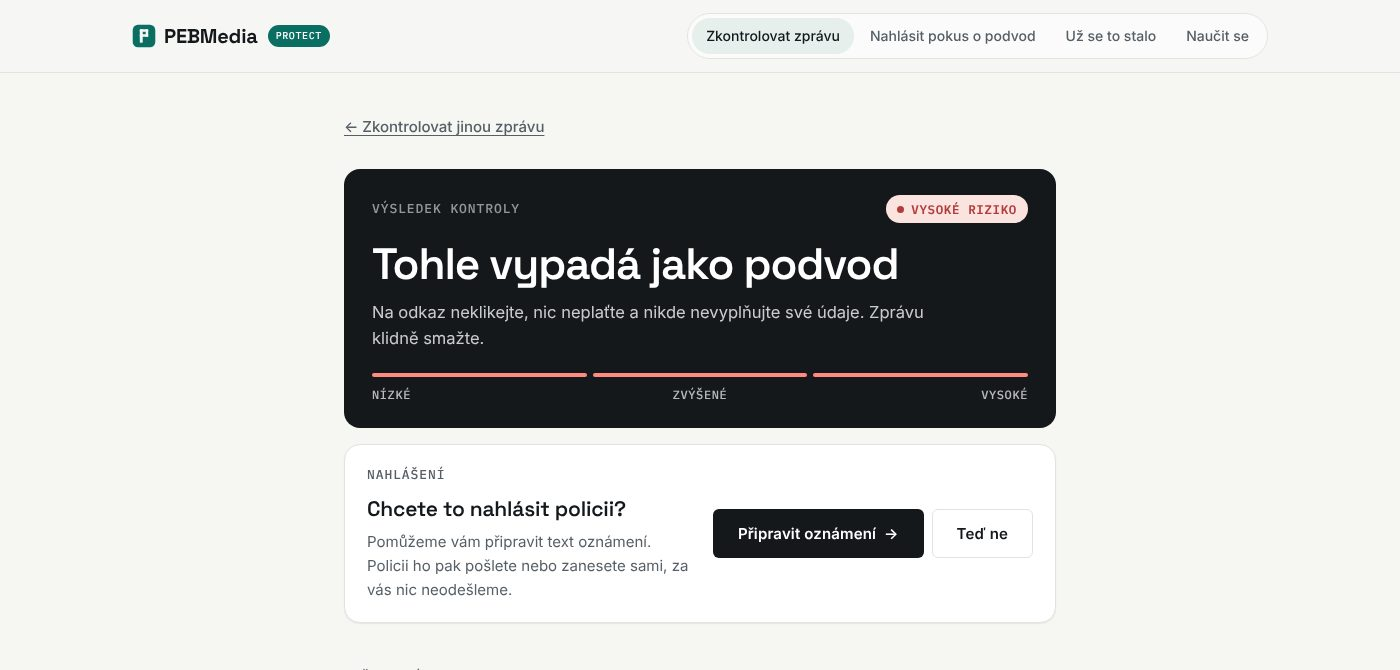
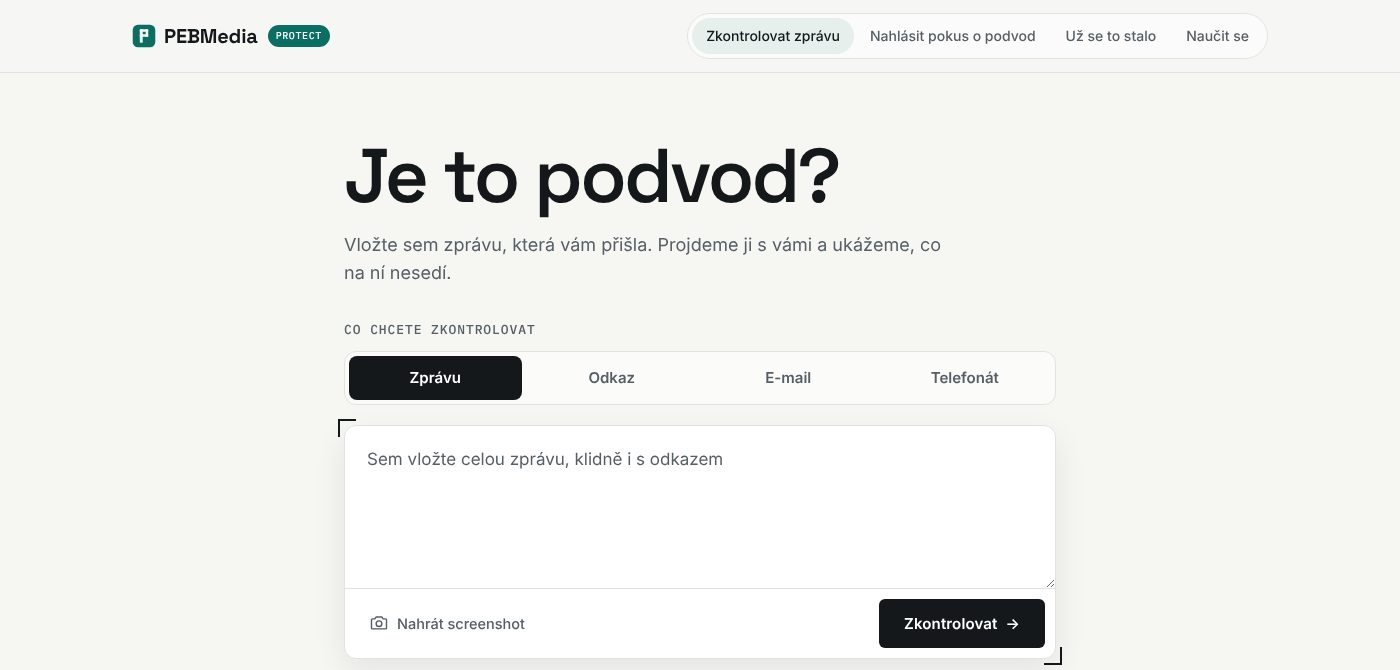
Aplikace v hlavním menu před Portfoliem, užší menu na menších noteboocích, nový náhled Protectu v portfoliu
Claude-Session: https://claude.ai/code/session_01KvbsohA7L4ZgRBRyzWzrXQ

diff --git a/index.html b/index.html
@@ -30,7 +30,7 @@
 <link rel="apple-touch-icon" sizes="180x180" href="assets/apple-touch-icon.png">
 <link rel="manifest" href="site.webmanifest">
 <link rel="stylesheet" href="css/fonts.css?v=1">
-<link rel="stylesheet" href="css/style.css?v=49">
+<link rel="stylesheet" href="css/style.css?v=50">
 <link rel="stylesheet" href="css/legal.css?v=1">
 <!-- Strukturovaná data (Schema.org) -->
 <!-- Strukturovaná data (JSON-LD) i obsah sekcí generuje scripts/predgeneruj.js z data/content.json — neupravujte je ručně. -->
@@ -510,13 +510,13 @@
       <span class="nav-indicator" aria-hidden="true"></span>
       <a href="#sluzby">Služby</a>
       <a href="#balicky">Balíčky</a>
+      <a href="#aplikace">Aplikace</a>
       <a href="#portfolio">Portfolio</a>
       <a href="#reference">Reference</a>
       <div class="nav-drop">
         <a href="#o-nas" class="nav-drop-trigger" data-sekce="o-nas skoly" aria-haspopup="true">O nás <svg class="nav-drop-sipka" viewBox="0 0 24 24" aria-hidden="true"><path d="M6 9l6 6 6-6"></path></svg></a>
         <div class="nav-drop-menu" aria-label="O nás">
           <a href="#o-nas">Kdo jsme</a>
-          <a href="#aplikace">Naše aplikace</a>
           <a href="#skoly">Podporujeme školy</a>
           <a href="tombola/">Vouchery do tomboly</a>
         </div>
@@ -537,8 +537,8 @@
   <a href="#top">Domů</a>
   <a href="#sluzby">Služby</a>
   <a href="#balicky">Balíčky</a>
-  <a href="#portfolio">Portfolio</a>
   <a href="#aplikace">Aplikace</a>
+  <a href="#portfolio">Portfolio</a>
   <a href="#reference">Reference</a>
   <a href="#o-nas">O nás</a>
   <a href="#skoly" class="mobile-nav-sub">Podporujeme školy</a>
@@ -881,7 +881,7 @@ pro moderní firmy.</h1>
           </div>
         </div><div class="portfolio-card reveal is-featured">
           <div class="portfolio-media">
-            <img src="assets/portfolio-protect.jpg" alt="PEBMedia Protect" loading="lazy">
+            <img src="assets/portfolio-protect.jpg?v=2" alt="PEBMedia Protect" loading="lazy">
           </div>
           <div class="portfolio-body">
             <div>
@@ -1211,8 +1211,8 @@ Pojďme ho vytvořit.</h2>
         <div class="footer-col">
           <div class="footer-col-title">Navigace</div>
           <a href="#sluzby">Služby</a>
-          <a href="#portfolio">Portfolio</a>
           <a href="#aplikace">Aplikace</a>
+          <a href="#portfolio">Portfolio</a>
           <a href="#o-nas">O nás</a>
           <a href="obchod/">Obchod</a>
           <a href="#kontakt">Kontakt</a>

diff --git a/css/style.css b/css/style.css
@@ -1848,3 +1848,11 @@ body.is-leaving-protect { overflow: hidden; }
 .app-features li { font-size: 13.5px; color: var(--ink); background: var(--accent-tint); border-radius: 100px; padding: 6px 12px; }
 .app-cta { align-self: flex-start; margin-top: auto; }
 @media (max-width: 520px) { .app-card { padding: 22px 18px; } .app-name { font-size: 21px; } .app-icon { width: 48px; height: 48px; } .app-cta { align-self: stretch; justify-content: center; } }
+
+/* Hlavní menu s položkou Aplikace: na menších noteboocích trochu užší, aby se vše vešlo */
+@media (min-width: 981px) and (max-width: 1120px) {
+  .header-inner { column-gap: 12px; }
+  .main-nav a { padding: 8px 8px; font-size: 13px; }
+  .header-actions { gap: 10px; }
+  .header-actions .btn { padding: 10px 14px; font-size: 13px; }
+}

diff --git a/js/content-fallback.js b/js/content-fallback.js
@@ -676,7 +676,7 @@ window.__PEBMEDIA_FALLBACK_CONTENT__ = {
         "category": "Vlastní aplikace",
         "text": "Bezplatný nástroj na kontrolu podvodných SMS, e-mailů a odkazů. Vše běží v prohlížeči, zprávy nikam neodcházejí.",
         "year": "2026",
-        "image": "assets/portfolio-protect.jpg",
+        "image": "assets/portfolio-protect.jpg?v=2",
         "link": "https://protect.pebmedia.cz",
         "featured": true,
         "order": 3,
